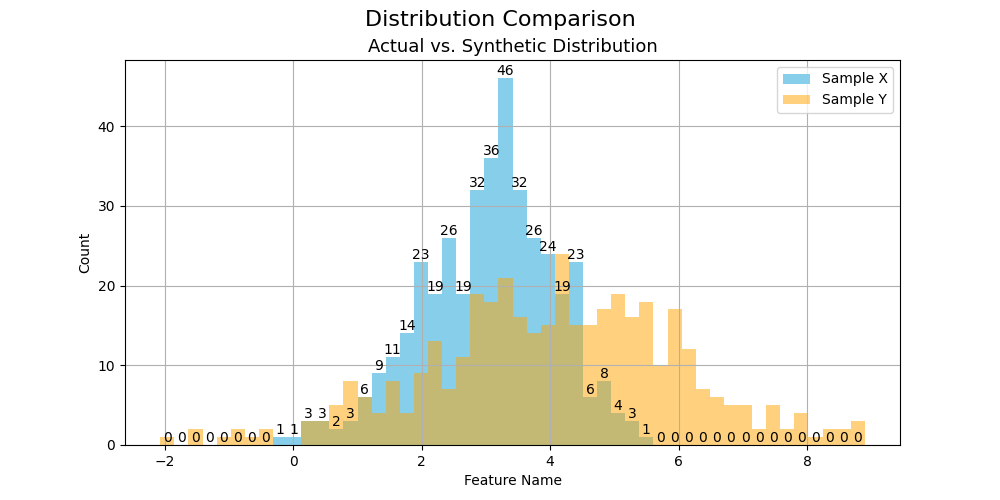
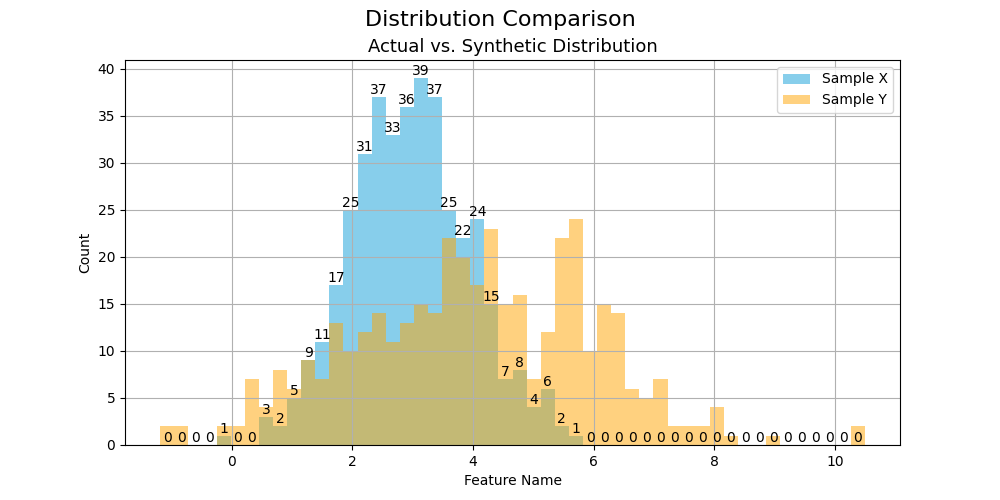
Initial distirbution comparison

diff --git a/plots/plt_compare_distributions.py b/plots/plt_compare_distributions.py
@@ -6,13 +6,14 @@ import pathlib
 import os
 from matplotlib import pyplot as plt
 from typing import Final, Union, List
+import pandas as pd
 
 # This script location
 SCRIPT_DIR = pathlib.Path(__file__).parent.resolve()
 
 # Run preview
 try:
-    PREVIEW = os.getenv("PREVIEW", 'False').lower() in ('true', '1', 't')
+    PREVIEW = os.getenv("PREVIEW", "False").lower() in ("true", "1", "t")
 except:
     PREVIEW = False
 
@@ -38,7 +39,7 @@ def gen_histograms(
     _, bins, bars = plt.hist(
         x,
         bins=50,
-        range=[min(x + y), max(x + y)],
+        range=[min([*x, *y]), max([*x, *y])],
         label=labels[0],
         color="skyblue",
         lw=0,
@@ -65,3 +66,22 @@ if PREVIEW:
     # Run
     sample_figure = gen_histograms(x=sam_x, y=sam_y)
     sample_figure.savefig(os.path.join(SCRIPT_DIR, "sample_fig.png"), format="png")
+
+
+# Compare actual distributions
+df_tabgan = pd.read_csv(
+    os.path.join(SCRIPT_DIR, "..", "data", "fake", "tabgan_data.csv")
+)
+df_actual = pd.read_csv(os.path.join(SCRIPT_DIR, "..", "data", "raw", "train.csv"))
+
+plt_compare = gen_histograms(
+    x=random.sample(sorted(df_tabgan["Age"].values), 891),
+    y=df_actual["Age"].values,
+    plot_title="Synthetic and Real Age of Titanic Passengers",
+    show_bar_labels=False,
+    labels=['Synthetic', 'Actual'],
+    x_label="Age"
+)
+plt_compare.savefig(
+    os.path.join(SCRIPT_DIR, "tabgan_actual_comparison.png"), format="png"
+)
